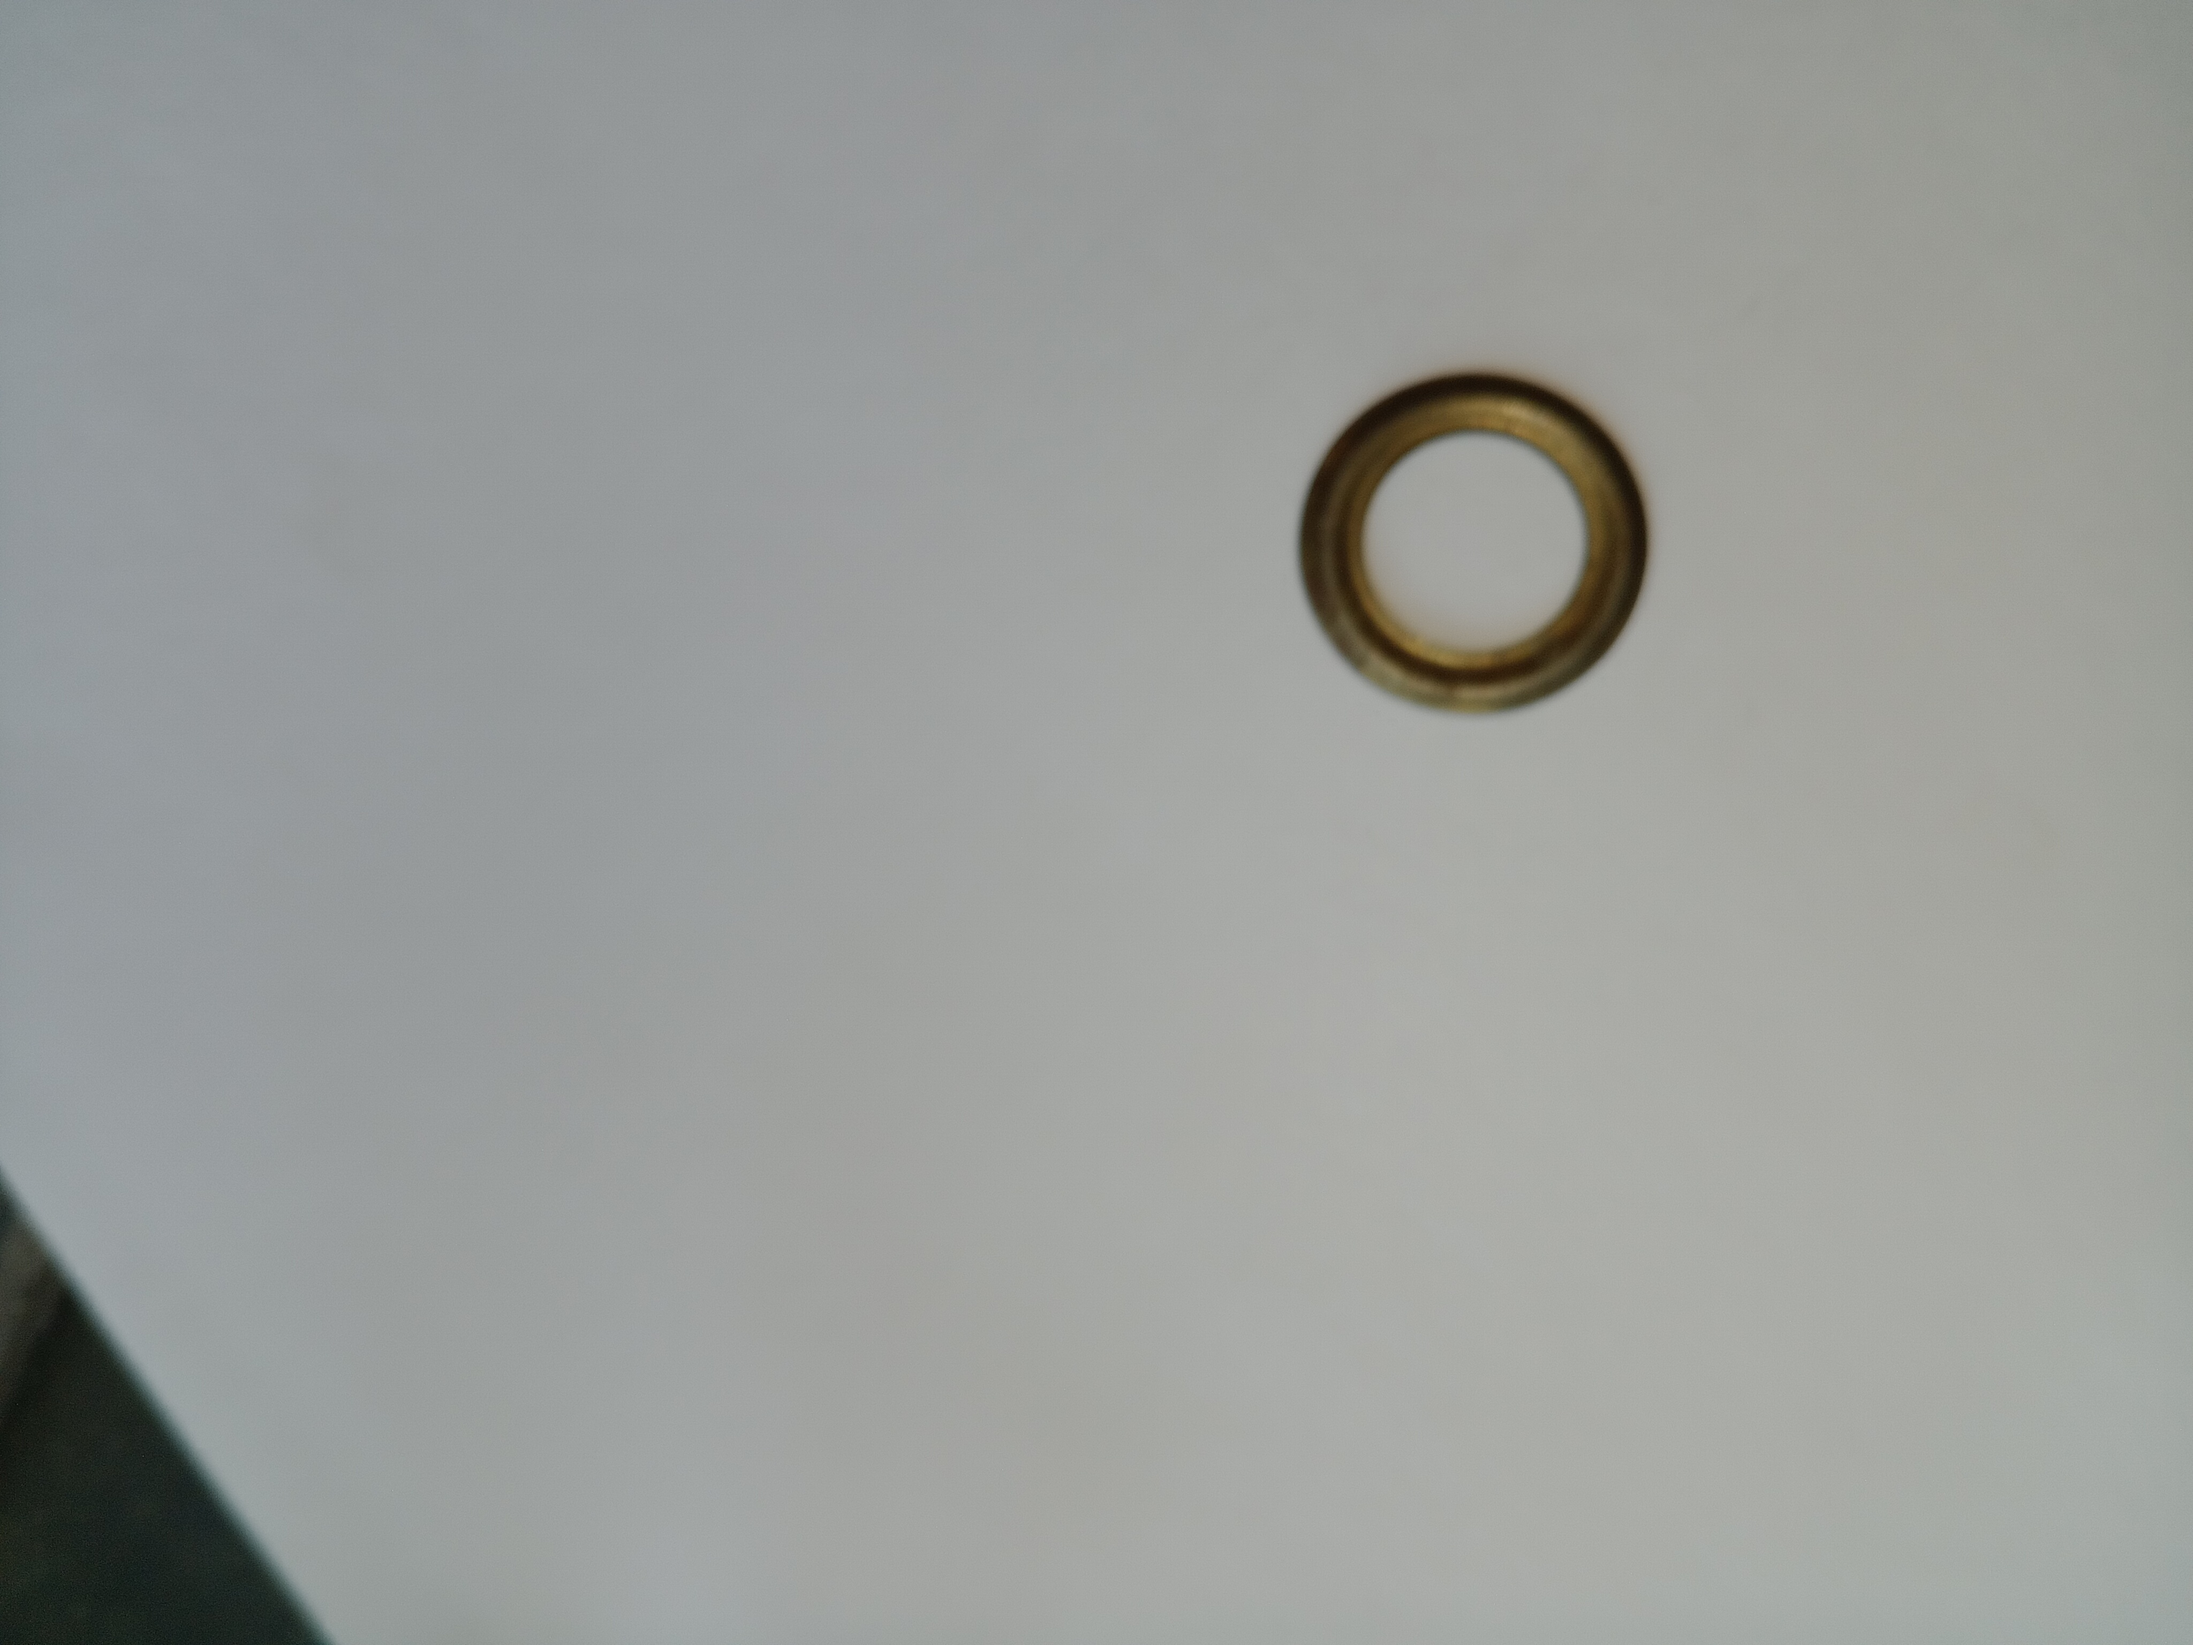
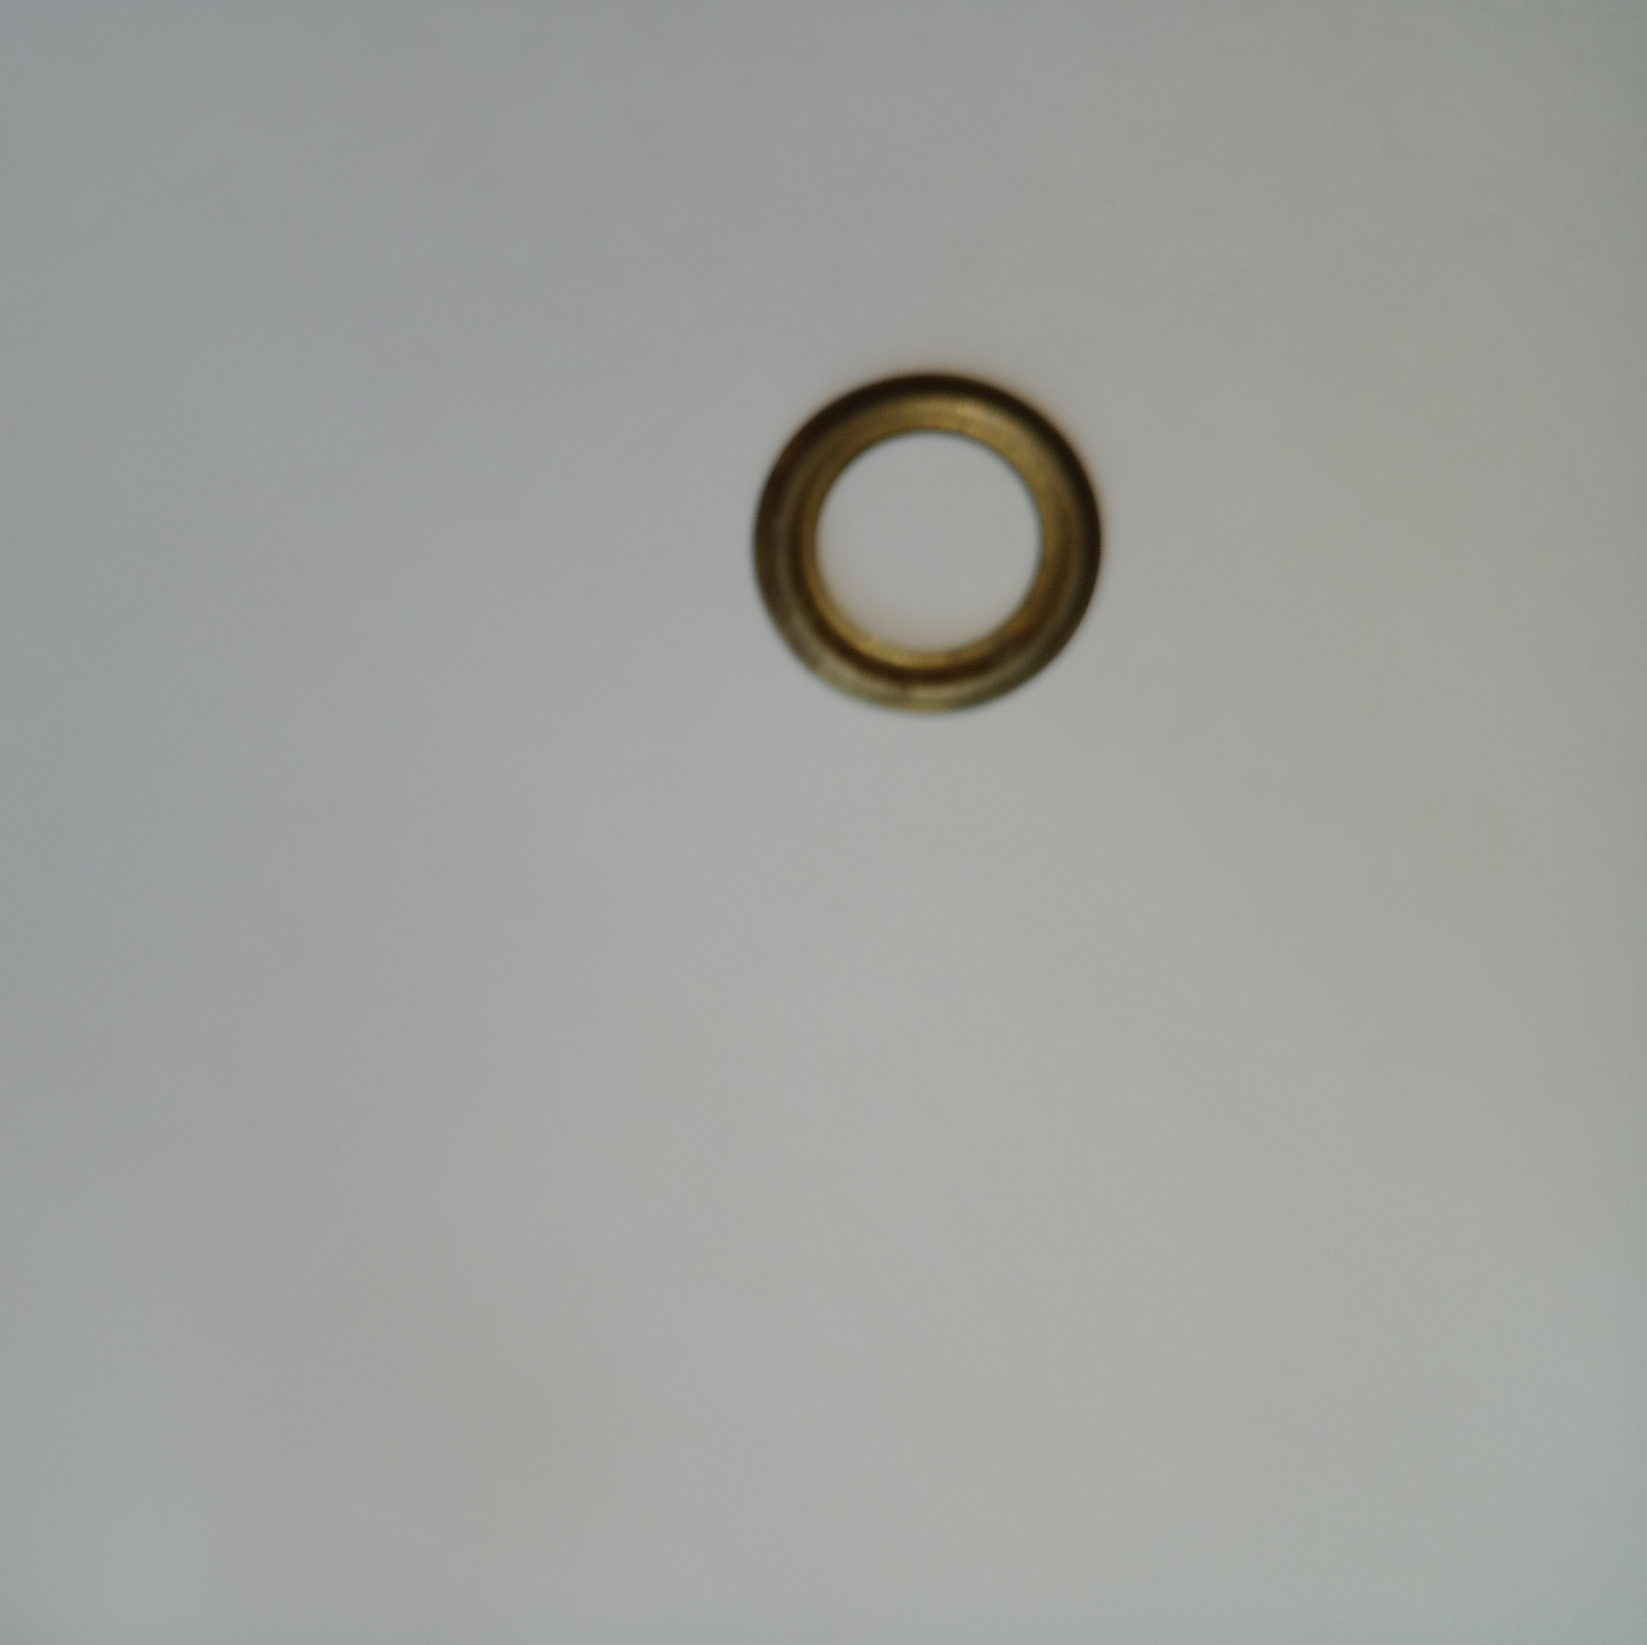
cambiar DataSet

Changed region(s): [[0.4369, 0.2188, 0.7802, 0.4375], [0.0, 0.7188, 0.156, 1.0]]

diff --git a/app/model/image_model.py b/app/model/image_model.py
@@ -12,6 +12,7 @@ class ImageModel:
          - Primer momento de Hu (hu0)
         """        
         imagen_filtrada = self.filtrado(imagen)
+        cv2.imshow("img_filtrada",imagen_filtrada)
         # Buscar contornos
         contornos, _ = cv2.findContours(imagen_filtrada, cv2.RETR_EXTERNAL, cv2.CHAIN_APPROX_SIMPLE)
         if not contornos:
@@ -49,12 +50,11 @@ class ImageModel:
     def generar_imagen_contorno(self, imagen_cv):
         # Obtener la imagen con bordes/umbrales
         imagen_filtrada = self.filtrado(imagen_cv)
-        
         # Buscar contornos
         contornos, _ = cv2.findContours(imagen_filtrada, cv2.RETR_EXTERNAL, cv2.CHAIN_APPROX_SIMPLE)
         
         # Copiar la imagen original para dibujar sobre ella
-        contorno_img = imagen_cv.copy()
+        contorno_img = self.resize(imagen_cv.copy(), 400, 400)
         
         if contornos:
             # Seleccionar el contorno de mayor área
@@ -99,13 +99,14 @@ class ImageModel:
 
     def filtrado(self, img):
         # Opcional: redimensionar (ajusta según tu caso)
-        # img = self.resize(img, width=400, height=400)
+        img = self.resize(img, width=400, height=400)
         
         # Convertir a escala de grises
-        gray = cv2.cvtColor(img, cv2.COLOR_BGR2GRAY)
-        
+        gray = cv2.cvtColor(img, cv2.COLOR_BGR2GRAY)        
+        cv2.imshow("img_gris",gray)
         # Aplicar un filtro de mediana o bilateral
-        gray = cv2.medianBlur(gray, 5)
+        gray = cv2.medianBlur(gray, 5)       
+        cv2.imshow("img_grisBlur",gray)
         # gray = cv2.bilateralFilter(gray, 9, 75, 75)
         
         # Umbralizar la imagen (Otsu o adaptativo) para resaltar el objeto
@@ -114,7 +115,8 @@ class ImageModel:
         thresh = cv2.adaptiveThreshold(
             gray, 255, cv2.ADAPTIVE_THRESH_GAUSSIAN_C,
             cv2.THRESH_BINARY_INV, 51, 5
-        )
+        )       
+        cv2.imshow("img_thresh",thresh)
         
         # Operaciones morfológicas
         kernel = np.ones((5, 5), np.uint8)
@@ -125,9 +127,11 @@ class ImageModel:
         lower = int(max(0, (1.0 - 0.33) * median_val))
         upper = int(min(255, (1.0 + 0.33) * median_val))
         edges = cv2.Canny(thresh, lower, upper)
+        cv2.imshow("img_Canny",edges)
         
         # Cierre final si hace falta
         edges = cv2.morphologyEx(edges, cv2.MORPH_CLOSE, kernel, iterations=2)
+        cv2.imshow("img_morphClos",edges)
         
         return edges
 
